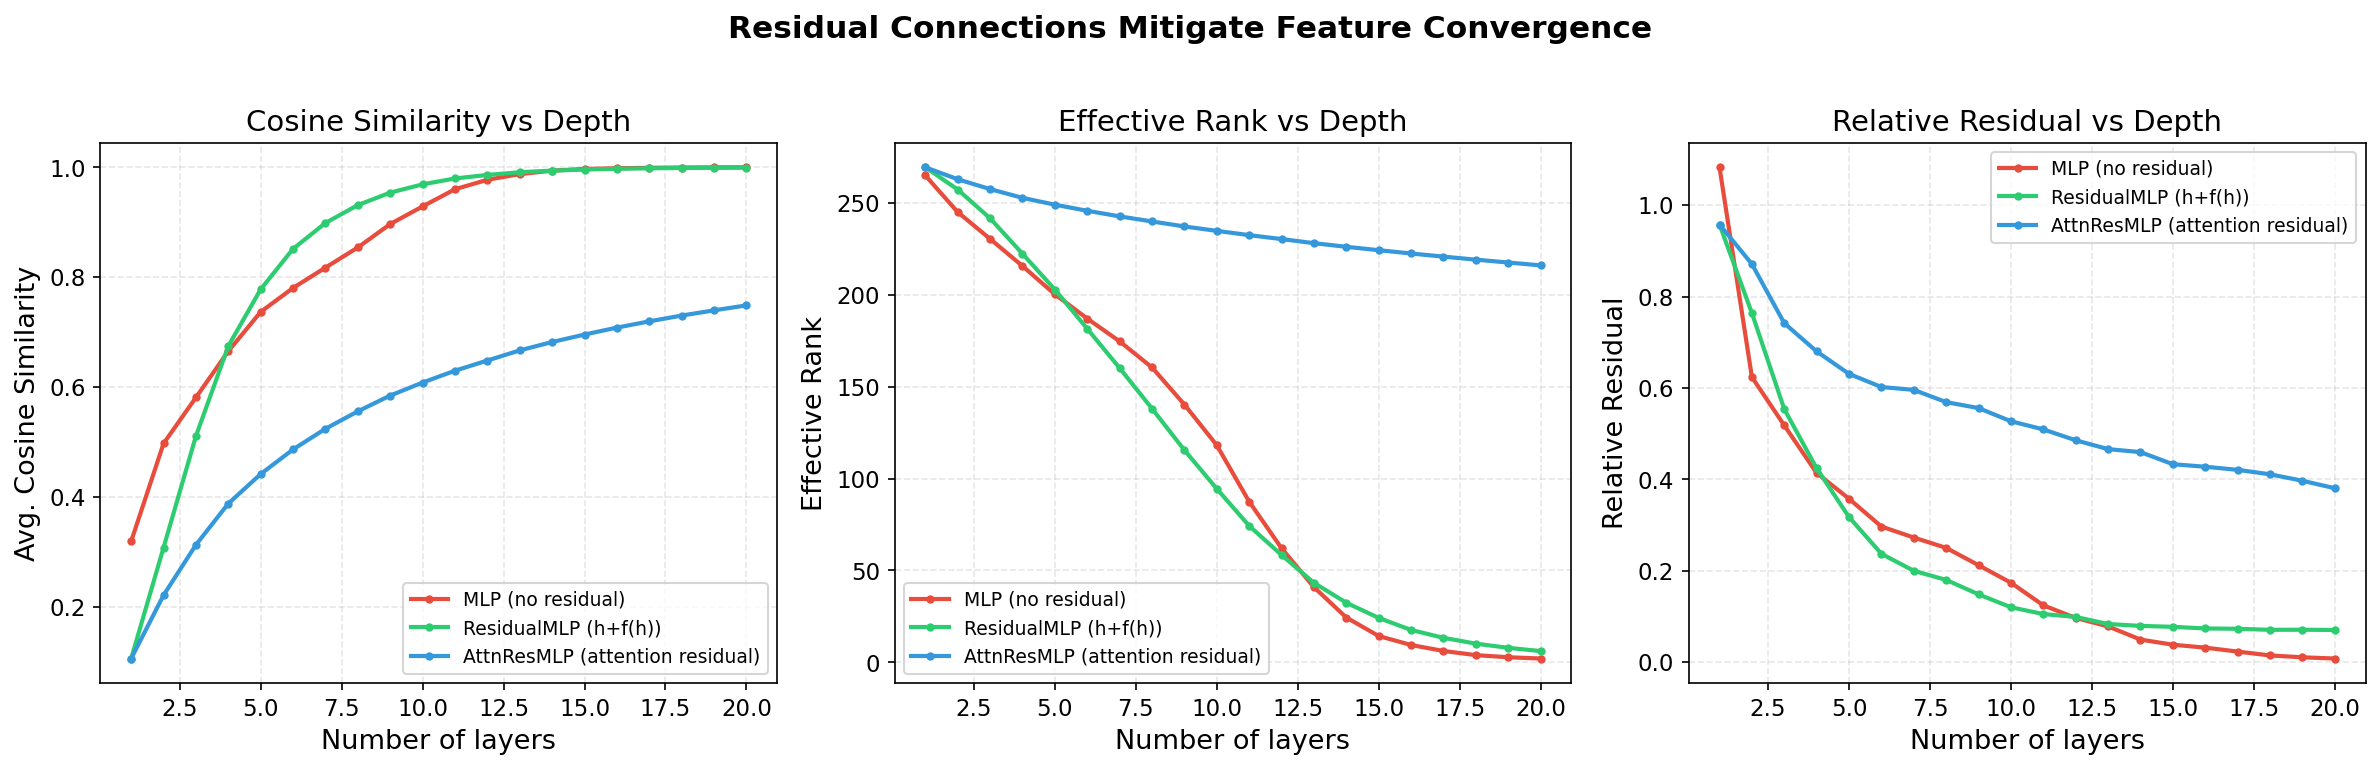
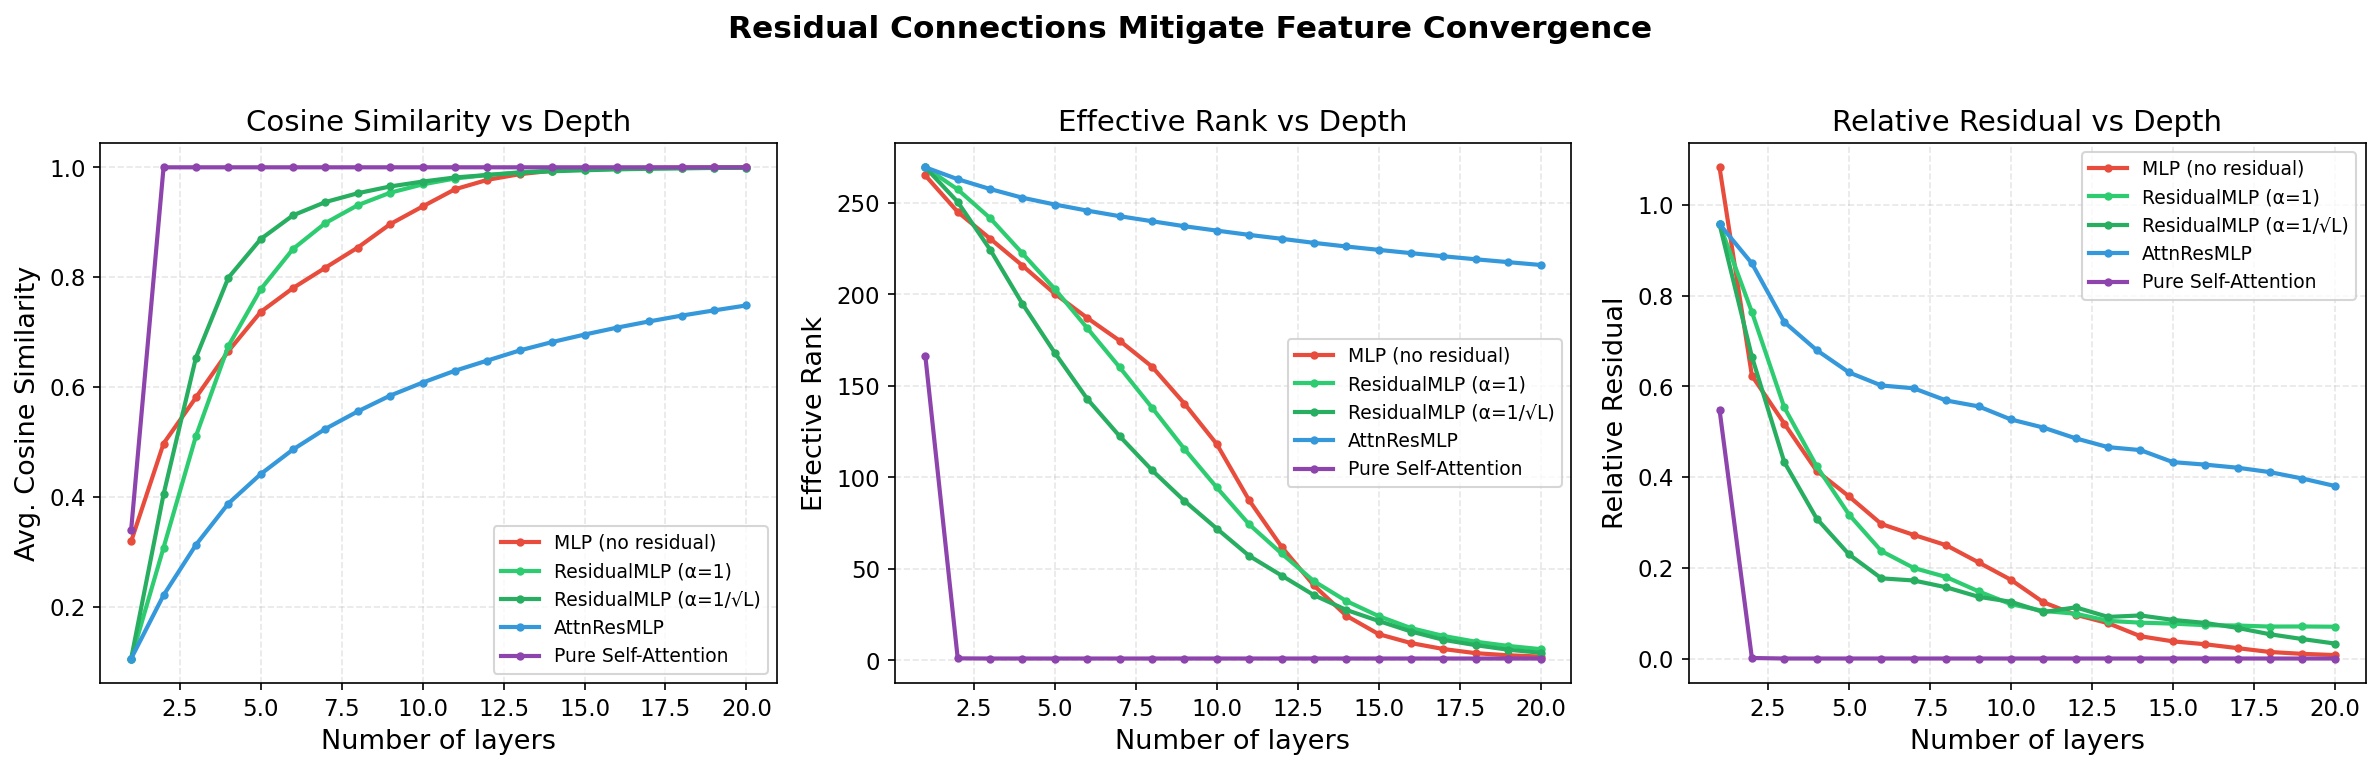
exp2: add 1/sqrt(L) scaling and pure attention comparison per advisor

diff --git a/src/models.py b/src/models.py
@@ -153,6 +153,7 @@ class ResidualMLP:
         activation: str = "relu",
         seed: int = 0,
         init_scale: Optional[float] = None,
+        alpha: float = 1.0,
     ):
         self.d_input = d_input
         self.d_hidden = d_hidden
@@ -160,6 +161,7 @@ class ResidualMLP:
         self.activation_name = activation
         self.act_fn = ACTIVATIONS[activation]
         self.seed = seed
+        self.alpha = alpha  # Residual scaling: h = alpha * h + f(h)
 
         rng = np.random.default_rng(seed)
         self.layers: List[Tuple[np.ndarray, np.ndarray]] = []
@@ -183,7 +185,7 @@ class ResidualMLP:
             residual = h
             h = h @ W.T + b
             h = self.act_fn(h)
-            h = residual + h  # Skip connection
+            h = self.alpha * residual + h  # Scaled skip connection
             if return_intermediates:
                 intermediates.append(h)
 
@@ -193,7 +195,7 @@ class ResidualMLP:
         return (
             f"ResidualMLP(d_in={self.d_input}, d_hid={self.d_hidden}, "
             f"layers={self.n_layers}, act={self.activation_name}, "
-            f"seed={self.seed})"
+            f"alpha={self.alpha:.3f}, seed={self.seed})"
         )
 
 
@@ -315,6 +317,93 @@ class AttnResMLP:
 
 
 # ---------------------------------------------------------------------------
+# Pure Self-Attention  (no residual, no FFN)
+# ---------------------------------------------------------------------------
+
+class PureSelfAttention:
+    """Pure self-attention layers without any residual connections.
+
+    Each layer computes:
+        h_{l+1} = softmax(h_l W_Q (h_l W_K)^T / sqrt(d)) h_l W_V W_O
+
+    No skip connections are applied.  This is the degenerate architecture
+    studied by Dong et al. (2021, ICML), who prove that the rank of h_l
+    collapses doubly-exponentially with depth:
+        rank(h_l) ≤ n / 2^l  (approximately)
+
+    All weight matrices are Xavier-initialized: W ~ N(0, 1/d).
+
+    The model accepts the same forward(X, return_intermediates=True)
+    interface as MLP / ResidualMLP / AttnResMLP for drop-in comparison.
+    """
+
+    def __init__(
+        self,
+        d_input: int,
+        d_hidden: int,
+        n_layers: int,
+        activation: str = "relu",   # accepted for API compatibility, unused
+        seed: int = 0,
+        init_scale: Optional[float] = None,
+    ):
+        self.d_input = d_input
+        self.d_hidden = d_hidden
+        self.n_layers = n_layers
+        self.seed = seed
+
+        rng = np.random.default_rng(seed)
+        scale = init_scale if init_scale is not None else 1.0 / d_hidden
+
+        # Input projection (d_input -> d_hidden)
+        self.W_in = rng.normal(0, np.sqrt(1.0 / d_input), (d_hidden, d_input))
+
+        # Per-layer attention matrices
+        self.blocks: List[Tuple[np.ndarray, np.ndarray, np.ndarray, np.ndarray]] = []
+        for _ in range(n_layers):
+            W_Q = rng.normal(0, np.sqrt(scale), (d_hidden, d_hidden))
+            W_K = rng.normal(0, np.sqrt(scale), (d_hidden, d_hidden))
+            W_V = rng.normal(0, np.sqrt(scale), (d_hidden, d_hidden))
+            W_O = rng.normal(0, np.sqrt(scale), (d_hidden, d_hidden))
+            self.blocks.append((W_Q, W_K, W_V, W_O))
+
+    def _attn(
+        self,
+        X: np.ndarray,
+        W_Q: np.ndarray,
+        W_K: np.ndarray,
+        W_V: np.ndarray,
+        W_O: np.ndarray,
+    ) -> np.ndarray:
+        Q = X @ W_Q.T
+        K = X @ W_K.T
+        V = X @ W_V.T
+        scale = np.sqrt(self.d_hidden)
+        scores = Q @ K.T / scale                        # (N, N)
+        scores -= scores.max(axis=-1, keepdims=True)    # numerical stability
+        weights = np.exp(scores)
+        weights /= weights.sum(axis=-1, keepdims=True)
+        return weights @ V @ W_O.T                      # (N, d_hidden)
+
+    def forward(self, X: np.ndarray, return_intermediates: bool = False):
+        """Forward pass: pure self-attention, no residual."""
+        h = X @ self.W_in.T                             # (N, d_hidden)
+        intermediates = [h] if return_intermediates else None
+
+        for W_Q, W_K, W_V, W_O in self.blocks:
+            h = self._attn(h, W_Q, W_K, W_V, W_O)     # No skip connection
+            if return_intermediates:
+                intermediates.append(h)
+
+        return intermediates if return_intermediates else h
+
+    def __repr__(self):
+        return (
+            f"PureSelfAttention(d_in={self.d_input}, d_hid={self.d_hidden}, "
+            f"layers={self.n_layers}, seed={self.seed})"
+        )
+
+
+# ---------------------------------------------------------------------------
 # Factory
 # ---------------------------------------------------------------------------
 
@@ -322,6 +411,7 @@ MODEL_REGISTRY = {
     "mlp": MLP,
     "residual_mlp": ResidualMLP,
     "attnres_mlp": AttnResMLP,
+    "pure_self_attn": PureSelfAttention,
 }
 
 

diff --git a/src/experiments.py b/src/experiments.py
@@ -37,7 +37,7 @@ Experiment 8: Init Variance Sweep
 import numpy as np
 from typing import Dict, List, Any
 
-from .models import MLP, ResidualMLP, AttnResMLP, TransformerEncoder, build_model, ACTIVATIONS
+from .models import MLP, ResidualMLP, AttnResMLP, PureSelfAttention, TransformerEncoder, build_model, ACTIVATIONS
 from .metrics import (
     cosine_similarity_stats,
     effective_rank,
@@ -95,20 +95,28 @@ def exp1_cone_effect(
 # ---------------------------------------------------------------------------
 
 def exp2_residual_comparison(
-    d_input: int = 32,
-    d_hidden: int = 32,
-    max_layers: int = 25,
-    n_samples: int = 500,
+    d_input: int = 1024,
+    d_hidden: int = 1024,
+    max_layers: int = 20,
+    n_samples: int = 300,
     seed: int = 42,
 ) -> Dict[str, Any]:
-    """Compare rank collapse across model types.
+    """Compare rank collapse across five model types.
 
     Measures:
     - Average cosine similarity (cone effect)
     - Effective rank
     - Relative residual (token uniformity)
 
-    across depths for MLP, ResidualMLP, and AttnResMLP.
+    across depths for:
+      MLP / ResidualMLP(α=1) / ResidualMLP(α=1/√L) / AttnResMLP / PureSelfAttention
+
+    The α=1/√L variant follows Noci et al. (2022) §4: for a network of
+    total depth L, every skip connection is scaled by 1/√L so that the
+    effective per-layer contribution stays constant regardless of depth.
+
+    The Pure Self-Attention baseline (no residual, no FFN) exhibits
+    doubly-exponential rank collapse as proved by Dong et al. (2021).
 
     Args:
         d_input:    Input dimension.
@@ -118,47 +126,35 @@ def exp2_residual_comparison(
         seed:       Random seed.
 
     Returns:
-        Dict mapping model_name -> dict of metric lists.
+        Dict mapping model_name -> {'cos_sim', 'eff_rank', 'rel_residual'}.
     """
     rng = np.random.default_rng(seed)
     X = rng.standard_normal((n_samples, d_input))
 
-    model_configs = {
-        "MLP (no residual)": "mlp",
-        "ResidualMLP (h+f(h))": "residual_mlp",
-        "AttnResMLP (attention residual)": "attnres_mlp",
-    }
-
     results = {}
-    for label, model_type in model_configs.items():
-        cos_sims = []
-        eff_ranks = []
-        rel_residuals = []
+    common = dict(d_input=d_input, d_hidden=d_hidden, activation="relu", seed=0)
 
-        for n_layers in range(1, max_layers + 1):
-            model = build_model(
-                model_type,
-                d_input=d_input,
-                d_hidden=d_hidden,
-                n_layers=n_layers,
-                activation="relu",
-                seed=0,
-            )
-            intermediates = model.forward(X, return_intermediates=True)
-
-            # Use the last layer's features
-            feats = intermediates[-1]
-
-            stats = cosine_similarity_stats(feats)
-            cos_sims.append(stats["mean"])
-            eff_ranks.append(effective_rank(feats))
-            rel_residuals.append(relative_residual(feats))
-
-        results[label] = {
-            "cos_sim": cos_sims,
-            "eff_rank": eff_ranks,
-            "rel_residual": rel_residuals,
+    for n_layers in range(1, max_layers + 1):
+        builders = {
+            "MLP (no residual)": lambda L=n_layers: MLP(
+                n_layers=L, **common),
+            "ResidualMLP (α=1)": lambda L=n_layers: ResidualMLP(
+                n_layers=L, alpha=1.0, **common),
+            "ResidualMLP (α=1/√L)": lambda L=n_layers: ResidualMLP(
+                n_layers=L, alpha=1.0 / np.sqrt(L), **common),
+            "AttnResMLP": lambda L=n_layers: AttnResMLP(
+                n_layers=L, **common),
+            "Pure Self-Attention": lambda L=n_layers: PureSelfAttention(
+                d_input=d_input, d_hidden=d_hidden, n_layers=L, seed=0),
         }
+
+        for label, build in builders.items():
+            model = build()
+            feats = model.forward(X, return_intermediates=True)[-1]
+            entry = results.setdefault(label, {"cos_sim": [], "eff_rank": [], "rel_residual": []})
+            entry["cos_sim"].append(cosine_similarity_stats(feats)["mean"])
+            entry["eff_rank"].append(effective_rank(feats))
+            entry["rel_residual"].append(relative_residual(feats))
 
     return results
 

diff --git a/src/plotting.py b/src/plotting.py
@@ -18,12 +18,19 @@ matplotlib.use("Agg")
 # ---------------------------------------------------------------------------
 
 COLORS = {
-    "MLP (no residual)": "#e74c3c",
-    "ResidualMLP (h+f(h))": "#2ecc71",
+    # Exp 2 (5-model comparison)
+    "MLP (no residual)":        "#e74c3c",
+    "ResidualMLP (α=1)":        "#2ecc71",
+    "ResidualMLP (α=1/√L)":     "#27ae60",
+    "AttnResMLP":               "#3498db",
+    "Pure Self-Attention":      "#8e44ad",
+    # Exp 3
+    "SAN (no residual)":        "#e74c3c",
+    "SAN + skip":               "#2ecc71",
+    "SAN + AttnRes":            "#3498db",
+    # Exp 8 (legacy labels kept for backward compat)
+    "ResidualMLP (h+f(h))":         "#2ecc71",
     "AttnResMLP (attention residual)": "#3498db",
-    "SAN (no residual)": "#e74c3c",
-    "SAN + skip": "#2ecc71",
-    "SAN + AttnRes": "#3498db",
 }
 
 NORM_COLORS = {

diff --git a/run_experiments.py b/run_experiments.py
@@ -76,7 +76,7 @@ def run_exp1(out_dir: str = "figures"):
 def run_exp2(out_dir: str = "figures"):
     """Experiment 2: Residual Connection Comparison."""
     separator("Exp 2: Residual Connection Comparison")
-    print("  Comparing: Plain MLP / ResidualMLP / AttnResMLP")
+    print("  Comparing: MLP / ResidualMLP(α=1) / ResidualMLP(α=1/√L) / AttnResMLP / Pure Self-Attention")
     print("  Metrics: cosine similarity, effective rank, relative residual\n")
 
     t0 = time.time()